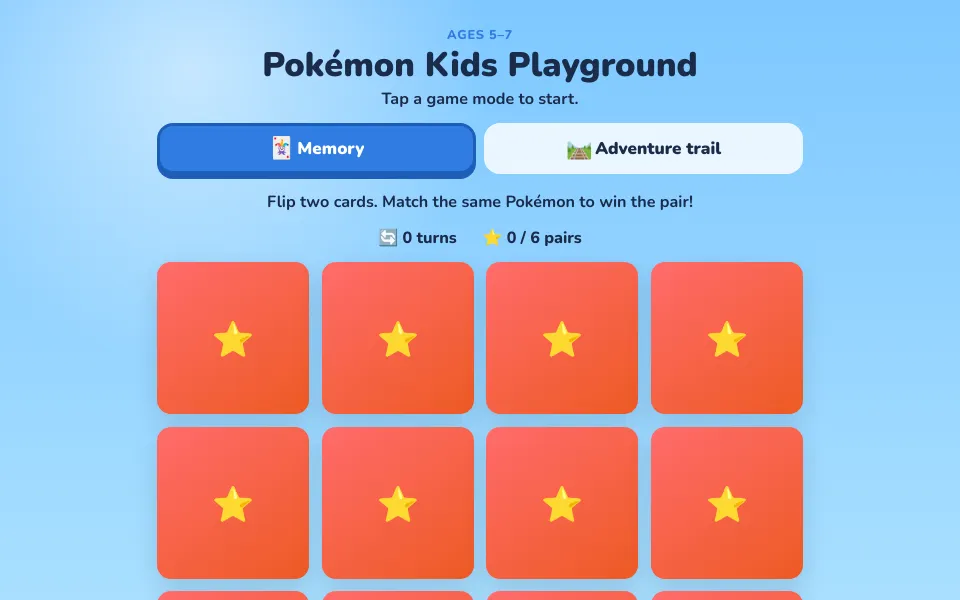
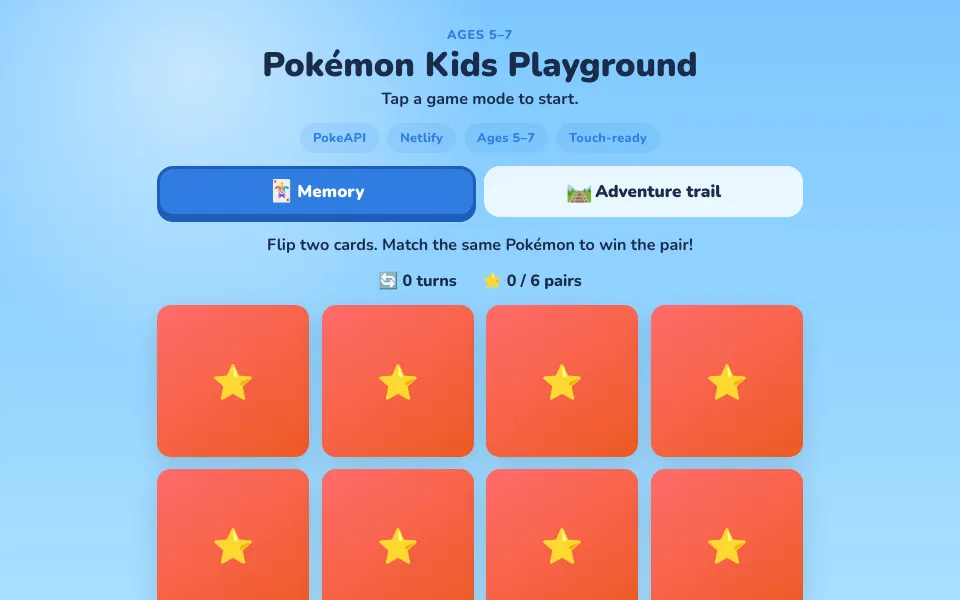
Docs: polished README and fresh screenshot with blue pills.
Align documentation with search-app standards and update deploy
screenshot showing pills and memory layout.

Changed region(s): [[0.1562, 0.18, 0.8438, 0.54], [0.1562, 0.54, 0.8438, 1.0]]

diff --git a/README.md b/README.md
@@ -13,11 +13,11 @@
 
 A **mobile-first**, touch-friendly Pokémon mini-game for children ages **5–7**. Sibling project to [pokemon-search-app](https://github.com/Elli2022/pokemon-search-app).
 
-Kids match picture cards only — no reading required. A curated roster (Pikachu, Charmander, Eevee, and friends) avoids random obscure species names.
+Kids match **picture cards only** — no reading required. A curated roster (Pikachu, Charmander, Eevee, and friends) avoids random obscure species names.
 
 ## Screenshot
 
-![Memory mode on a phone-sized layout — three-column card grid, mode tabs, and turn counter](images/screenshot.png)
+![Pokémon Kids Playground — mode tabs, blue highlight pills, and memory card grid on a phone layout](images/screenshot.png)
 
 ## Live demo
 
@@ -30,13 +30,19 @@ Kids match picture cards only — no reading required. A curated roster (Pikachu
 | **Memory** | 12 cards, 6 pairs. Flip two at a time until all matches are found. |
 | **Adventure trail** | Five stops on a path. Each stop has a 4-card mini memory (2 pairs). Clear a stop to move the buddy forward. |
 
+## In-app highlights
+
+Blue status pills in the header:
+
+`PokeAPI` · `Netlify` · `Ages 5–7` · `Touch-ready`
+
 ## Mobile & touch
 
 Built **mobile-first**, then enhanced for larger screens:
 
 - 3-column memory grid on phones, 4 columns from `36rem` up
 - Minimum **48×48px** tap targets (tabs, cards, buttons)
-- `touch-action: manipulation` and `-webkit-tap-highlight-color: transparent` to reduce tap delay and flash
+- `touch-action: manipulation` and reduced tap highlight flash
 - `pointerup` handlers with debounce to avoid double-flips on touch
 - `safe-area-inset` padding for notched devices
 - `100dvh` layout and horizontal scroll on the trail when needed
@@ -80,6 +86,10 @@ Open [http://localhost:4173](http://localhost:4173). Use your browser’s device
 2. **Build command:** leave empty.
 3. **Publish directory:** `.` (repository root).
 4. `netlify.toml` sets publish path and security headers.
+
+## Related project
+
+For older kids and adults, see **[pokemon-search-app](https://github.com/Elli2022/pokemon-search-app)** — full Pokédex search, favorites, evolution chains, and bilingual profiles.
 
 ## Author
 